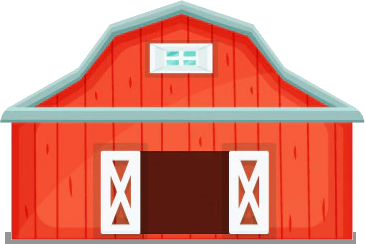
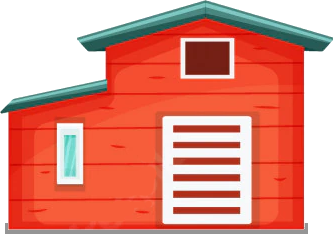
update

diff --git a/src/pages/index.js b/src/pages/index.js
@@ -869,7 +869,7 @@ const Home = () => {
           </div>
         </div>
         <div class="ranch trees">
-          <div class="popup-wrapper popup-barn-1">
+          {/* <div class="popup-wrapper popup-barn-1">
             <div class="popup-box-1 popup-box">
               <div class="popup-profit-header">BASIC BARN</div>
               <div class="container">
@@ -980,7 +980,7 @@ const Home = () => {
               </div>
             </div>
             <button type="button" class="popup-btn-close"></button>
-          </div>
+          </div> */}
 
           <div class="barns">
             <div class="barn">
@@ -988,7 +988,7 @@ const Home = () => {
               <div class="barn-action">
                 <button class="btn-red btn-buy-barn">
                   <div class="farm-coin">&nbsp;</div>
-                  100
+                  500
                 </button>
               </div>
             </div>
@@ -997,7 +997,7 @@ const Home = () => {
               <div class="barn-action">
                 <button class="btn-red btn-buy-barn">
                   <div class="farm-coin">&nbsp;</div>
-                  1K
+                  1500
                 </button>
               </div>
             </div>
@@ -1006,7 +1006,7 @@ const Home = () => {
               <div class="barn-action">
                 <button class="btn-red btn-buy-barn">
                   <div class="farm-coin">&nbsp;</div>
-                  2K
+                  4500
                 </button>
               </div>
             </div>
@@ -1015,45 +1015,45 @@ const Home = () => {
               <div class="barn-action">
                 <button class="btn-red btn-buy-barn">
                   <div class="farm-coin">&nbsp;</div>
-                  3K
+                  13.5K
                 </button>
               </div>
             </div>
           </div >
           <div class="barns">
             <div class="barn">
-              <div class="barn-1 barn-grey-100"></div>
+              <div class="barn-5 barn-grey-100"></div>
               <div class="barn-action">
                 <button class="btn-red btn-buy-barn">
                   <div class="farm-coin">&nbsp;</div>
-                  100
+                  40.5K
                 </button>
               </div>
             </div>
             <div class="barn">
-              <div class="barn-2 barn-grey-100"></div>
+              <div class="barn-6 barn-grey-100"></div>
               <div class="barn-action">
                 <button class="btn-red btn-buy-barn">
                   <div class="farm-coin">&nbsp;</div>
-                  1K
+                  120K
                 </button>
               </div>
             </div>
             <div class="barn">
-              <div class="barn-3 barn-grey-100"></div>
+              <div class="barn-7 barn-grey-100"></div>
               <div class="barn-action">
                 <button class="btn-red btn-buy-barn">
                   <div class="farm-coin">&nbsp;</div>
-                  2K
+                  365K
                 </button>
               </div>
             </div>
             <div class="barn">
-              <div class="barn-4 barn-grey-100"></div>
+              <div class="barn-8 barn-grey-100"></div>
               <div class="barn-action">
                 <button class="btn-red btn-buy-barn">
                   <div class="farm-coin">&nbsp;</div>
-                  3K
+                  1M
                 </button>
               </div>
             </div>

diff --git a/src/App.css b/src/App.css
@@ -133,7 +133,7 @@ input.form-input {
   background-size: contain;
   background-repeat: no-repeat;
   background-position: center;
-  padding: 10px 20px;
+  padding: 10px 10px;
   font-size: 19px;
   line-height: initial;
   color: ivory;
@@ -235,7 +235,7 @@ button:hover,
 }
 
 .barn {
-  margin: 10px;
+  margin: 5px;
 }
 
 .barn div {
@@ -244,7 +244,7 @@ button:hover,
   background-position: center bottom;
   overflow: hidden;
   text-align: center;
-  height: 220px;
+  height: 120px;
 }
 
 .barn .barn-grey-0:hover,
@@ -253,42 +253,73 @@ button:hover,
   transform: scale(1.1);
 }
 
-
 .barn-1 {
   top: 0px;
-  width: 196px;
-  background-image: url('https://happyfarmer.app/assets/img/barns/barn_1.webp');
+  width: 230px;
+  background-image: url('https://dapp-frontend-prince.web.app/img/house1.webp');
   bottom: 0px;
   filter: grayscale(100%);
 }
 
 .barn-2 {
   top: 0px;
-  width: 280px;
-  background-image: url('https://happyfarmer.app/assets/img/barns/barn_2.webp');
+  width: 260px;
+  background-image: url('https://dapp-frontend-prince.web.app/img/house2.webp');
   bottom: 0px;
   filter: grayscale(100%);
 }
 
 .barn-3 {
   top: 0px;
-  width: 330px;
-  background-image: url('https://happyfarmer.app/assets/img/barns/barn_3.webp');
+  width: 290px;
+  background-image: url('https://dapp-frontend-prince.web.app/img/house3.webp');
   bottom: 0px;
   filter: grayscale(100%);
 }
 
 .barn-4 {
   top: 0px;
-  width: 380px;
-  background-image: url('https://happyfarmer.app/assets/img/barns/barn_4.webp');
+  width: 320px;
+  background-image: url('https://dapp-frontend-prince.web.app/img/house4.webp');
+  bottom: 0px;
+  filter: grayscale(100%);
+}
+
+.barn-5 {
+  top: 0px;
+  width: 260px;
+  background-image: url('https://dapp-frontend-prince.web.app/img/house5.webp');
+  bottom: 0px;
+  filter: grayscale(100%);
+}
+
+.barn-6 {
+  top: 0px;
+  width: 290px;
+  background-image: url('https://dapp-frontend-prince.web.app/img/house6.webp');
+  bottom: 0px;
+  filter: grayscale(100%);
+}
+
+.barn-7 {
+  top: 0px;
+  width: 320px;
+  background-image: url('https://dapp-frontend-prince.web.app/img/house7.webp');
+  bottom: 0px;
+  filter: grayscale(100%);
+}
+
+.barn-8 {
+  top: 0px;
+  width: 350px;
+  background-image: url('https://dapp-frontend-prince.web.app/img/house8.webp');
   bottom: 0px;
   filter: grayscale(100%);
 }
 
 .barns {
   position: relative;
-  top: 76%;
+  top: 35%;
   left: 50%;
   transform: translate(-50%, calc(-50% + 10px));
   overflow: hidden;
@@ -297,6 +328,8 @@ button:hover,
   z-index: 2;
   width: 100%;
   overflow-x: scroll;
+  display: flex;
+  justify-content: center;
 }
 
 
@@ -362,11 +395,8 @@ div.barn-action {
   width: 100%;
   background-repeat: repeat-x;
   background-size: contain;
-  background-position: bottom;
-  height: 113px;
-  position: relative;
-  top: 0%;
-  height: 100vh;
+  background-position: top;
+  height: 75vh;
   z-index: 0;
 }
 
